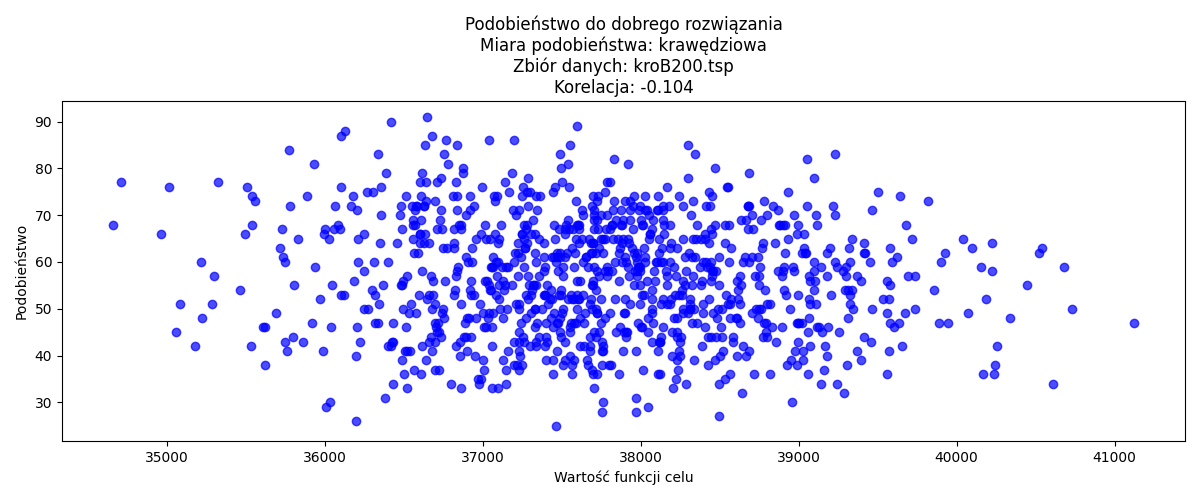
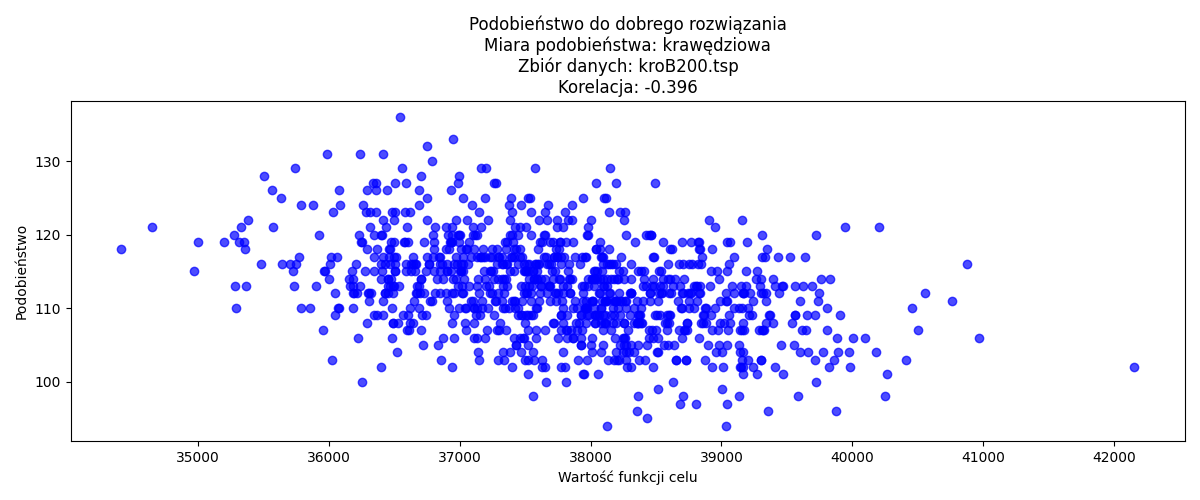
Bugfix

diff --git a/lab6/plot.py b/lab6/plot.py
@@ -54,11 +54,15 @@ def calc_similarity_edges(solution1, solution2):
 
     for cycle in solution1:
         for i in range(len(cycle)):
-            edges1.add((cycle[i], cycle[(i + 1) % len(cycle)]))
+            a = cycle[i]
+            b = cycle[(i + 1) % len(cycle)]
+            edges1.add((min(a, b), max(a, b)))
 
     for cycle in solution2:
         for i in range(len(cycle)):
-            edges2.add((cycle[i], cycle[(i + 1) % len(cycle)]))
+            a = cycle[i]
+            b = cycle[(i + 1) % len(cycle)]
+            edges2.add((min(a, b), max(a, b)))
 
     similarity = len(edges1.intersection(edges2))
     return similarity
@@ -180,14 +184,14 @@ def process_file(file_paths):
             + cycle_length(good_solution[1], distance_matrix),
         )
 
-        plot_similarities(
-            random_solutions,
-            good_solution,
-            n,
-            distance_matrix,
-            mode="nodes",
-            data_name=os.path.basename(file_path),
-        )
+        # plot_similarities(
+        #     random_solutions,
+        #     good_solution,
+        #     n,
+        #     distance_matrix,
+        #     mode="nodes",
+        #     data_name=os.path.basename(file_path),
+        # )
 
         plot_similarities(
             random_solutions,
